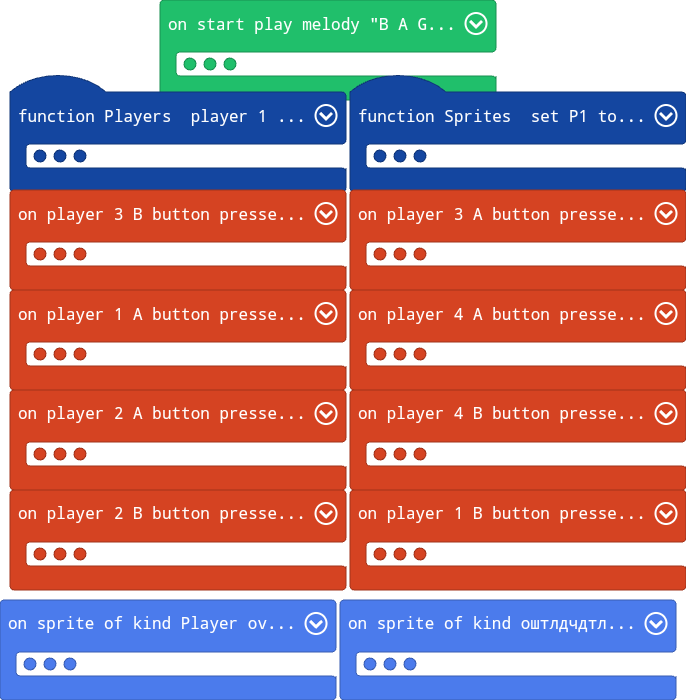
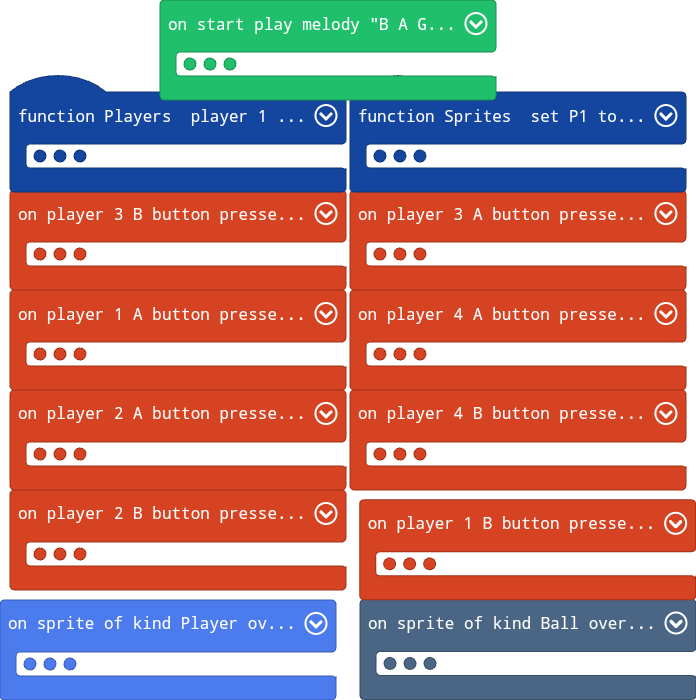
Update! Expanded map! Also the camera is following the ball!

diff --git a/tilemap.g.ts b/tilemap.g.ts
@@ -12,20 +12,58 @@ namespace myTiles {
     export const tile4 = image.ofBuffer(hex``);
     //% fixedInstance jres blockIdentity=images._tile
     export const tile6 = image.ofBuffer(hex``);
+    //% fixedInstance jres blockIdentity=images._tile
+    export const tile5 = image.ofBuffer(hex``);
+    //% fixedInstance jres blockIdentity=images._tile
+    export const tile7 = image.ofBuffer(hex``);
+    //% fixedInstance jres blockIdentity=images._tile
+    export const tile8 = image.ofBuffer(hex``);
+    //% fixedInstance jres blockIdentity=images._tile
+    export const tile9 = image.ofBuffer(hex``);
+    //% fixedInstance jres blockIdentity=images._tile
+    export const tile10 = image.ofBuffer(hex``);
+    //% fixedInstance jres blockIdentity=images._tile
+    export const tile11 = image.ofBuffer(hex``);
+    //% fixedInstance jres blockIdentity=images._tile
+    export const tile12 = image.ofBuffer(hex``);
+    //% fixedInstance jres blockIdentity=images._tile
+    export const tile13 = image.ofBuffer(hex``);
 
     helpers._registerFactory("tilemap", function(name: string) {
         switch(helpers.stringTrim(name)) {
             case "level":
[1 lines of base64/hex data omitted]
-. . . . . . . . . . 
-. . . . . . . . . . 
-. . . . . . . . . . 
-. . . . . . . . . . 
-. . . . . . . . . . 
-. . . . . . . . . . 
-. . . . . . . . . . 
-. . . . . . . . . . 
-`, [myTiles.transparency16,myTiles.tile1,myTiles.tile2,myTiles.tile3,myTiles.tile4,sprites.dungeon.stairNorth], TileScale.Sixteen);
[1 lines of base64/hex data omitted]
+..............................
+..............................
+..............................
+..............................
+..............................
+..............................
+..............................
+..............................
+..............................
+..............................
+..............................
+..............................
+..............................
+..............................
+..............................
+..............................
+..............................
+..............................
+..............................
+..............................
+..............................
+..............................
+..............................
+..............................
+..............................
+..............................
+..............................
+..............................
+..............................
+..............................
+`, [myTiles.transparency16,myTiles.tile1,myTiles.tile2,myTiles.tile3,myTiles.tile4,sprites.dungeon.stairNorth,sprites.vehicle.roadTurn2,sprites.vehicle.roadTurn4,sprites.vehicle.roadVertical,sprites.skillmap.islandTile0,myTiles.tile5,myTiles.tile7,myTiles.tile8,myTiles.tile9,sprites.skillmap.islandTile2,sprites.skillmap.islandTile3,sprites.skillmap.islandTile5,sprites.skillmap.islandTile4,myTiles.tile11,myTiles.tile12,myTiles.tile13], TileScale.Sixteen);
         }
         return null;
     })
@@ -43,6 +81,22 @@ namespace myTiles {
             case "tile4":return tile4;
             case "myTile4":
             case "tile6":return tile6;
+            case "myTile3":
+            case "tile5":return tile5;
+            case "myTile5":
+            case "tile7":return tile7;
+            case "myTile6":
+            case "tile8":return tile8;
+            case "myTile7":
+            case "tile9":return tile9;
+            case "myTile8":
+            case "tile10":return tile10;
+            case "myTile9":
+            case "tile11":return tile11;
+            case "myTile10":
+            case "tile12":return tile12;
+            case "myTile11":
+            case "tile13":return tile13;
         }
         return null;
     })

diff --git a/main.ts b/main.ts
@@ -37,10 +37,6 @@ controller.player2.onButtonEvent(ControllerButton.A, ControllerButtonEvent.Press
 controller.player3.onButtonEvent(ControllerButton.A, ControllerButtonEvent.Pressed, function () {
     P3.sayText("Hi! ", 2000, false)
 })
-sprites.onOverlap(SpriteKind.оштлдчдтлошщвдошщовшолдолвзолжлтуждоожщузщлзлщзлщцзлщджлуджлжлдужьдджьждьцдьдьжцьжд, SpriteKind.Ball, function (sprite, otherSprite) {
-    Ball_IsSAS.vy += randint(-4, -5)
-    Ball_IsSAS.vx += randint(-4, -5)
-})
 // Chat P4 HI
 controller.player4.onButtonEvent(ControllerButton.A, ControllerButtonEvent.Pressed, function () {
     P4.sayText("Hello!", 2000, false)
@@ -48,6 +44,10 @@ controller.player4.onButtonEvent(ControllerButton.A, ControllerButtonEvent.Press
 sprites.onOverlap(SpriteKind.Player, SpriteKind.Ball, function (sprite, otherSprite) {
     Ball_IsSAS.vx = randint(0, 160)
     Ball_IsSAS.vy = randint(0, 120)
+})
+scene.onOverlapTile(SpriteKind.Ball, assets.tile`myTile11`, function (sprite, location) {
+    Ball_IsSAS.vy += randint(-4, -5)
+    Ball_IsSAS.vx += randint(-4, -5)
 })
 function Sprites () {
     P1 = sprites.create(assets.image`Player 1`, SpriteKind.Player)
@@ -65,6 +65,5 @@ tiles.setCurrentTilemap(tilemap`level`)
 Sprites()
 Players()
 Ball_IsSAS = sprites.create(assets.image`Ball`, SpriteKind.Ball)
-Ball_IsSAS.setPosition(29, 55)
-let лдтвлдтдвлтщушщттлщултдьдуьддьжуждььджцьдждььждудьжьджвждьждлжвдььджвэдьвэжьжыждлджжыдлджььжыьдждьжуджьдзджуджьждуджьждьдуджьдьжудьуждьдзуьдлздзьузьдздьудзььдзьуздььждьджуь = sprites.create(assets.image`myImage0`, SpriteKind.оштлдчдтлошщвдошщовшолдолвзолжлтуждоожщузщлзлщзлщцзлщджлуджлжлдужьдджьждьцдьдьжцьжд)
-лдтвлдтдвлтщушщттлщултдьдуьддьжуждььджцьдждььждудьжьджвждьждлжвдььджвэдьвэжьжыждлджжыдлджььжыьдждьжуджьдзджуджьждуджьждьдуджьдьжудьуждьдзуьдлздзьузьдздьудзььдзьуздььждьджуь.y = 81
+Ball_IsSAS.setPosition(16, 20)
+scene.cameraFollowSprite(Ball_IsSAS)
